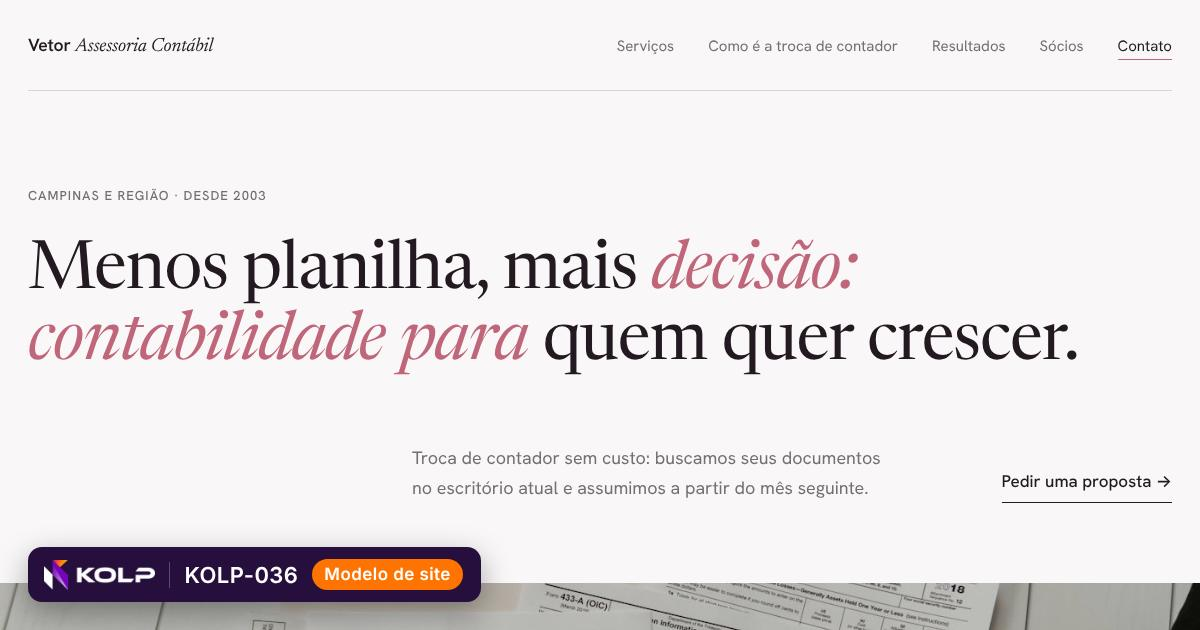
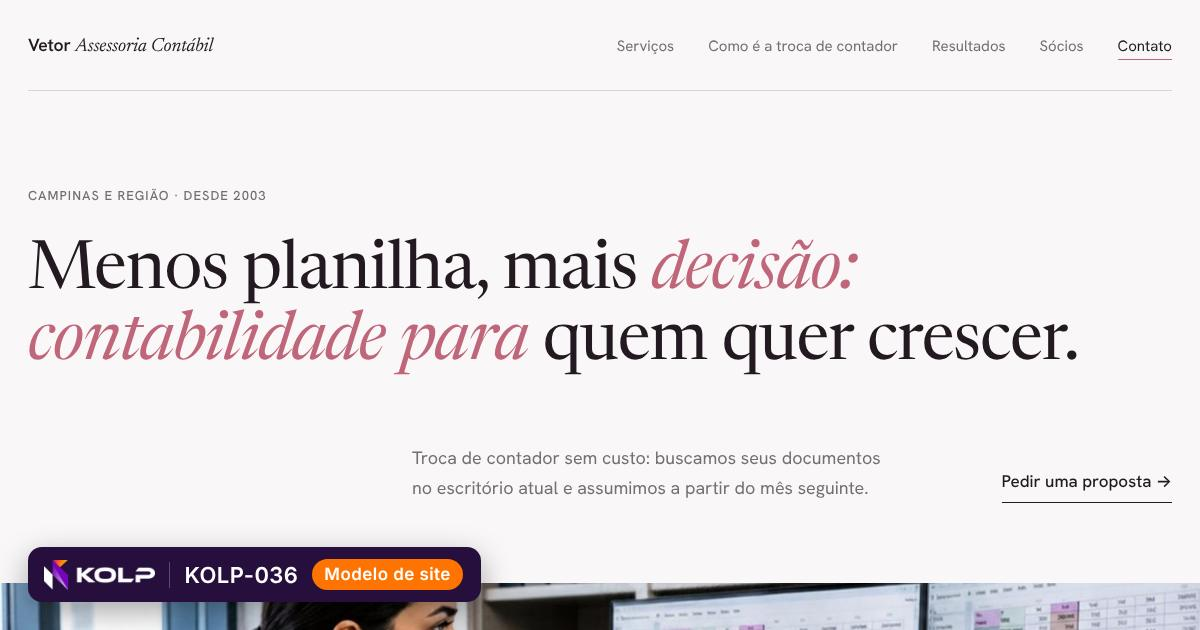
Add new photos for consultoria and contabilidade models
Claude-Session: https://claude.ai/code/session_0151Yi9K8yWSyYvoKWm1KgPz

Changed region(s): [[0.0, 0.9048, 1.0, 1.0]]

diff --git a/kolp-modelos/demo/consultoria-07/index.html b/kolp-modelos/demo/consultoria-07/index.html
@@ -35,7 +35,7 @@
       <p class="lide">Um sócio e um consultor dentro da sua empresa dois dias por semana, trabalhando com a sua equipe e não em paralelo a ela.</p>
       <div class="acoes"><a class="botao" href="#contato">Marcar uma conversa</a><a class="elo" href="#servicos">Conhecer as frentes de trabalho</a></div>
     </div>
-    <figure class="arco"><img src="../../fotos/consultoria/2.jpg" alt="" width="1400" height="930"><figcaption>Desde 2009</figcaption></figure>
+    <figure class="arco"><img src="../../fotos/consultoria/7.jpg" alt="" width="1400" height="930"><figcaption>Desde 2009</figcaption></figure>
   </div>
   <div class="largura"><dl class="indices"><div><dd>+7,2</dd><dt>pontos de margem, em média, nos projetos de finanças</dt></div><div><dd>140</dd><dt>empresas atendidas</dt></div><div><dd>15</dd><dt>anos de atuação</dt></div><div><dd>R$ 4,6 mi</dd><dt>liberados em caixa no maior projeto de 2025</dt></div></dl></div>
   </section>
@@ -43,7 +43,7 @@
     <header class="topo rev"><h2>Frentes de trabalho</h2><p>Três frentes, que quase sempre se cruzam no mesmo projeto.</p></header>
     <ol class="cartoes"><li class="rev"><h3>Estratégia e crescimento</h3><p>Onde investir nos próximos três anos, o que abandonar e quanto isso custa.</p></li><li class="rev"><h3>Finanças e resultado</h3><p>Margem por produto, por cliente e por canal, com orçamento que as áreas cumprem.</p></li><li class="rev"><h3>Governança e sucessão</h3><p>Quem decide o quê, como a família participa e como a próxima geração entra.</p></li><li class="rev"><h3>Vendas e precificação</h3><p>Estrutura comercial, metas, comissões e política de preços por perfil de cliente.</p></li><li class="rev"><h3>Processos e operação</h3><p>Mapeamento, eliminação de retrabalho e indicadores que a equipe acompanha.</p></li><li class="rev"><h3>Pessoas e liderança</h3><p>Organograma, cargos, avaliação de desempenho e formação de gestores.</p></li></ol>
   </div></section>
-  <section class="faixa rev"><img src="../../fotos/consultoria/3.jpg" alt="" width="1400" height="930" loading="lazy"><p>“Nenhum projeto começa sem um número combinado e nenhum termina com um relatório na gaveta.”</p></section>
+  <section class="faixa rev"><img src="../../fotos/consultoria/1.jpg" alt="" width="1400" height="930" loading="lazy"><p>“Nenhum projeto começa sem um número combinado e nenhum termina com um relatório na gaveta.”</p></section>
   <section class="precos" id="precos"><div class="largura precos-grade">
     <div class="precos-lado rev"><h2>Formatos de contratação</h2><p>Escolhemos o formato junto com você, depois do diagnóstico.</p><a class="botao" href="#contato">Marcar uma conversa</a></div>
     <div class="rev"><details open><summary>Diagnóstico</summary><ul><li><div><b>Diagnóstico expresso</b><span>Entrevistas e leitura dos números</span></div><strong>3 semanas</strong></li><li><div><b>Diagnóstico completo</b><span>Com visita à operação e plano</span></div><strong>6 semanas</strong></li><li><div><b>Segunda opinião</b><span>Sobre um plano já existente</span></div><strong>10 dias</strong></li></ul></details><details><summary>Projeto</summary><ul><li><div><b>Projeto de margem</b><span>Preços, portfólio e custos</span></div><strong>6 meses</strong></li><li><div><b>Plano estratégico</b><span>Com desdobramento em metas</span></div><strong>4 meses</strong></li><li><div><b>Sucessão</b><span>Acordo, conselho e transição</span></div><strong>12 meses</strong></li><li><div><b>Estrutura comercial</b><span>Processo, metas e remuneração</span></div><strong>5 meses</strong></li></ul></details><details><summary>Acompanhamento</summary><ul><li><div><b>Conselho consultivo</b><span>Reunião mensal com os sócios</span></div><strong>mensal</strong></li><li><div><b>Diretor por tempo parcial</b><span>Financeiro ou comercial</span></div><strong>2 dias/semana</strong></li><li><div><b>Mentoria de sucessores</b><span>Encontros quinzenais</span></div><strong>quinzenal</strong></li></ul></details></div>

diff --git a/kolp-modelos/demo/contabilidade-07/index.html b/kolp-modelos/demo/contabilidade-07/index.html
@@ -35,7 +35,7 @@
       <p class="lide">Se uma guia vencer por falha nossa, pagamos os encargos. Está no contrato.</p>
       <div class="acoes"><a class="botao" href="#contato">Pedir uma proposta</a><a class="elo" href="#servicos">Ver planos e valores</a></div>
     </div>
-    <figure class="arco"><img src="../../fotos/contabilidade/2.jpg" alt="" width="1400" height="930"><figcaption>Desde 2003</figcaption></figure>
+    <figure class="arco"><img src="../../fotos/contabilidade/1.jpg" alt="" width="1400" height="930"><figcaption>Desde 2003</figcaption></figure>
   </div>
   <div class="largura"><dl class="indices"><div><dd>430</dd><dt>empresas atendidas</dt></div><div><dd>22</dd><dt>anos de escritório</dt></div><div><dd>99,8%</dd><dt>das guias emitidas no prazo em 2025</dt></div><div><dd>R$ 18 mil</dd><dt>de economia tributária média no 1º ano</dt></div></dl></div>
   </section>
@@ -43,7 +43,7 @@
     <header class="topo rev"><h2>Serviços</h2><p>Do CNPJ ao balanço, sem terceirizar nenhuma etapa.</p></header>
     <ol class="cartoes"><li class="rev"><h3>Abertura de empresa</h3><p>Contrato social, CNPJ, inscrições municipal e estadual, alvará e enquadramento tributário.</p></li><li class="rev"><h3>Contabilidade mensal</h3><p>Escrituração, apuração de impostos, emissão de guias, balancetes e balanço anual assinado.</p></li><li class="rev"><h3>Departamento pessoal</h3><p>Admissões, folha, férias, 13º, rescisões, eSocial e FGTS Digital.</p></li><li class="rev"><h3>Planejamento tributário</h3><p>Simulação anual entre os regimes, revisão do Fator R e do enquadramento de atividades.</p></li><li class="rev"><h3>Regularização</h3><p>Parcelamentos, certidões negativas, baixa de pendências na Receita e na prefeitura.</p></li><li class="rev"><h3>Imposto de renda</h3><p>Declaração dos sócios, ganho de capital, carnê-leão e malha fina.</p></li></ol>
   </div></section>
-  <section class="faixa rev"><img src="../../fotos/contabilidade/3.jpg" alt="" width="1400" height="930" loading="lazy"><p>“Contabilidade boa é a que avisa antes de a guia vencer, não depois.”</p></section>
+  <section class="faixa rev"><img src="../../fotos/contabilidade/2.jpg" alt="" width="1400" height="930" loading="lazy"><p>“Contabilidade boa é a que avisa antes de a guia vencer, não depois.”</p></section>
   <section class="precos" id="precos"><div class="largura precos-grade">
     <div class="precos-lado rev"><h2>Planos mensais</h2><p>Valor fixo, sem cobrança de 13ª mensalidade.</p><a class="botao" href="#contato">Pedir uma proposta</a></div>
     <div class="rev"><details open><summary>MEI</summary><ul><li><div><b>Mensalidade</b><span>Guia DAS e controle de faturamento</span></div><strong>R$ 89</strong></li><li><div><b>Declaração anual</b><span>DASN-SIMEI incluída</span></div><strong>incluso</strong></li><li><div><b>Notas fiscais</b><span>Até 10 por mês</span></div><strong>incluso</strong></li><li><div><b>Desenquadramento</b><span>Migração para ME</span></div><strong>R$ 390</strong></li></ul></details><details><summary>Simples Nacional</summary><ul><li><div><b>Mensalidade</b><span>Contábil e fiscal completos</span></div><strong>R$ 349</strong></li><li><div><b>Pró-labore</b><span>Até 2 sócios</span></div><strong>incluso</strong></li><li><div><b>Folha de pagamento</b><span>Até 3 funcionários</span></div><strong>incluso</strong></li><li><div><b>Certificado digital</b><span>e-CNPJ A1</span></div><strong>incluso</strong></li></ul></details><details><summary>Lucro Presumido</summary><ul><li><div><b>Mensalidade</b><span>A partir de</span></div><strong>R$ 690</strong></li><li><div><b>SPED</b><span>Contábil e Fiscal</span></div><strong>incluso</strong></li><li><div><b>Reunião de resultados</b><span>A cada trimestre</span></div><strong>incluso</strong></li><li><div><b>Funcionário adicional</b><span>Na folha</span></div><strong>R$ 45</strong></li></ul></details></div>

diff --git a/kolp-modelos/demo/consultoria-08/index.html b/kolp-modelos/demo/consultoria-08/index.html
@@ -34,17 +34,17 @@
     <p class="lide">A primeira conversa dura uma hora e não custa nada. Se não formos a consultoria certa para o seu momento, dizemos isso.</p>
     <div class="acoes"><a class="botao" href="#contato">Marcar uma conversa</a><a class="elo" href="#servicos">Conhecer as frentes de trabalho</a></div>
     <div class="mosaico">
-      <img class="m1" src="../../fotos/consultoria/4.jpg" alt="" width="1400" height="930">
-      <img class="m2" src="../../fotos/consultoria/3.jpg" alt="" width="1400" height="930">
-      <img class="m3" src="../../fotos/consultoria/5.jpg" alt="" width="1400" height="930">
+      <img class="m1" src="../../fotos/consultoria/2.jpg" alt="" width="1400" height="930">
+      <img class="m2" src="../../fotos/consultoria/1.jpg" alt="" width="1400" height="930">
+      <img class="m3" src="../../fotos/consultoria/3.jpg" alt="" width="1400" height="930">
       <p class="selo"><b>+7,2</b>pontos de margem, em média, nos projetos de finanças</p>
     </div>
   </div></section>
   <section class="pontos"><ul class="largura"><li class="rev">Projetos conduzidos pelos sócios</li><li class="rev">Meta em número e prazo para acabar</li><li class="rev">Honorários atrelados ao resultado</li></ul></section>
   <section class="servicos" id="servicos"><div class="largura">
     <header class="topo rev"><h2>Frentes de trabalho</h2><p>Três frentes, que quase sempre se cruzam no mesmo projeto.</p></header>
-    <div class="par rev"><img src="../../fotos/consultoria/1.jpg" alt="" width="1400" height="930" loading="lazy"><ul><li><h3>Estratégia e crescimento</h3><p>Onde investir nos próximos três anos, o que abandonar e quanto isso custa.</p></li><li><h3>Finanças e resultado</h3><p>Margem por produto, por cliente e por canal, com orçamento que as áreas cumprem.</p></li><li><h3>Governança e sucessão</h3><p>Quem decide o quê, como a família participa e como a próxima geração entra.</p></li></ul></div>
-    <div class="par par-inv rev"><img src="../../fotos/consultoria/2.jpg" alt="" width="1400" height="930" loading="lazy"><ul><li><h3>Vendas e precificação</h3><p>Estrutura comercial, metas, comissões e política de preços por perfil de cliente.</p></li><li><h3>Processos e operação</h3><p>Mapeamento, eliminação de retrabalho e indicadores que a equipe acompanha.</p></li><li><h3>Pessoas e liderança</h3><p>Organograma, cargos, avaliação de desempenho e formação de gestores.</p></li></ul></div>
+    <div class="par rev"><img src="../../fotos/consultoria/4.jpg" alt="" width="1400" height="930" loading="lazy"><ul><li><h3>Estratégia e crescimento</h3><p>Onde investir nos próximos três anos, o que abandonar e quanto isso custa.</p></li><li><h3>Finanças e resultado</h3><p>Margem por produto, por cliente e por canal, com orçamento que as áreas cumprem.</p></li><li><h3>Governança e sucessão</h3><p>Quem decide o quê, como a família participa e como a próxima geração entra.</p></li></ul></div>
+    <div class="par par-inv rev"><img src="../../fotos/consultoria/5.jpg" alt="" width="1400" height="930" loading="lazy"><ul><li><h3>Vendas e precificação</h3><p>Estrutura comercial, metas, comissões e política de preços por perfil de cliente.</p></li><li><h3>Processos e operação</h3><p>Mapeamento, eliminação de retrabalho e indicadores que a equipe acompanha.</p></li><li><h3>Pessoas e liderança</h3><p>Organograma, cargos, avaliação de desempenho e formação de gestores.</p></li></ul></div>
   </div></section>
   <section class="precos" id="precos"><div class="largura">
     <header class="topo rev"><h2>Formatos de contratação</h2><p>Escolhemos o formato junto com você, depois do diagnóstico.</p></header>

diff --git a/kolp-modelos/demo/contabilidade-08/index.html b/kolp-modelos/demo/contabilidade-08/index.html
@@ -34,17 +34,17 @@
     <p class="lide">Revisamos o seu enquadramento tributário todo ano. No primeiro, nossos clientes economizam em média R$ 18.400.</p>
     <div class="acoes"><a class="botao" href="#contato">Pedir uma proposta</a><a class="elo" href="#servicos">Ver planos e valores</a></div>
     <div class="mosaico">
-      <img class="m1" src="../../fotos/contabilidade/4.jpg" alt="" width="1400" height="930">
-      <img class="m2" src="../../fotos/contabilidade/3.jpg" alt="" width="1400" height="930">
-      <img class="m3" src="../../fotos/contabilidade/5.jpg" alt="" width="1400" height="930">
+      <img class="m1" src="../../fotos/contabilidade/3.jpg" alt="" width="1400" height="930">
+      <img class="m2" src="../../fotos/contabilidade/2.jpg" alt="" width="1400" height="930">
+      <img class="m3" src="../../fotos/contabilidade/4.jpg" alt="" width="1400" height="930">
       <p class="selo"><b>430</b>empresas atendidas</p>
     </div>
   </div></section>
   <section class="pontos"><ul class="largura"><li class="rev">Troca de contador sem custo</li><li class="rev">Multa por atraso é por nossa conta</li><li class="rev">Fechamento até o quinto dia útil</li></ul></section>
   <section class="servicos" id="servicos"><div class="largura">
     <header class="topo rev"><h2>Serviços</h2><p>Do CNPJ ao balanço, sem terceirizar nenhuma etapa.</p></header>
-    <div class="par rev"><img src="../../fotos/contabilidade/1.jpg" alt="" width="1400" height="930" loading="lazy"><ul><li><h3>Abertura de empresa</h3><p>Contrato social, CNPJ, inscrições municipal e estadual, alvará e enquadramento tributário.</p></li><li><h3>Contabilidade mensal</h3><p>Escrituração, apuração de impostos, emissão de guias, balancetes e balanço anual assinado.</p></li><li><h3>Departamento pessoal</h3><p>Admissões, folha, férias, 13º, rescisões, eSocial e FGTS Digital.</p></li></ul></div>
-    <div class="par par-inv rev"><img src="../../fotos/contabilidade/2.jpg" alt="" width="1400" height="930" loading="lazy"><ul><li><h3>Planejamento tributário</h3><p>Simulação anual entre os regimes, revisão do Fator R e do enquadramento de atividades.</p></li><li><h3>Regularização</h3><p>Parcelamentos, certidões negativas, baixa de pendências na Receita e na prefeitura.</p></li><li><h3>Imposto de renda</h3><p>Declaração dos sócios, ganho de capital, carnê-leão e malha fina.</p></li></ul></div>
+    <div class="par rev"><img src="../../fotos/contabilidade/5.jpg" alt="" width="1400" height="930" loading="lazy"><ul><li><h3>Abertura de empresa</h3><p>Contrato social, CNPJ, inscrições municipal e estadual, alvará e enquadramento tributário.</p></li><li><h3>Contabilidade mensal</h3><p>Escrituração, apuração de impostos, emissão de guias, balancetes e balanço anual assinado.</p></li><li><h3>Departamento pessoal</h3><p>Admissões, folha, férias, 13º, rescisões, eSocial e FGTS Digital.</p></li></ul></div>
+    <div class="par par-inv rev"><img src="../../fotos/contabilidade/6.jpg" alt="" width="1400" height="930" loading="lazy"><ul><li><h3>Planejamento tributário</h3><p>Simulação anual entre os regimes, revisão do Fator R e do enquadramento de atividades.</p></li><li><h3>Regularização</h3><p>Parcelamentos, certidões negativas, baixa de pendências na Receita e na prefeitura.</p></li><li><h3>Imposto de renda</h3><p>Declaração dos sócios, ganho de capital, carnê-leão e malha fina.</p></li></ul></div>
   </div></section>
   <section class="precos" id="precos"><div class="largura">
     <header class="topo rev"><h2>Planos mensais</h2><p>Valor fixo, sem cobrança de 13ª mensalidade.</p></header>

diff --git a/kolp-modelos/demo/consultoria-10/index.html b/kolp-modelos/demo/consultoria-10/index.html
@@ -30,7 +30,7 @@
 <div class="conteudo">
 <main>
   <section class="abertura">
-    <img src="../../fotos/consultoria/5.jpg" alt="" width="1400" height="930">
+    <img src="../../fotos/consultoria/3.jpg" alt="" width="1400" height="930">
     <div class="legenda"><p class="rotulo">Desde 2009 · Curitiba — PR</p><h1>Sócios com experiência de diretoria dentro da sua empresa toda semana.</h1></div>
   </section>
   <section class="sobre" id="sobre">
@@ -41,7 +41,7 @@
     <header class="topo"><h2>Frentes de trabalho</h2><p>Três frentes, que quase sempre se cruzam no mesmo projeto.</p></header>
     <ul class="servicos"><li><h3>Estratégia e crescimento</h3><p>Onde investir nos próximos três anos, o que abandonar e quanto isso custa.</p></li><li><h3>Finanças e resultado</h3><p>Margem por produto, por cliente e por canal, com orçamento que as áreas cumprem.</p></li><li><h3>Governança e sucessão</h3><p>Quem decide o quê, como a família participa e como a próxima geração entra.</p></li><li><h3>Vendas e precificação</h3><p>Estrutura comercial, metas, comissões e política de preços por perfil de cliente.</p></li><li><h3>Processos e operação</h3><p>Mapeamento, eliminação de retrabalho e indicadores que a equipe acompanha.</p></li><li><h3>Pessoas e liderança</h3><p>Organograma, cargos, avaliação de desempenho e formação de gestores.</p></li></ul>
   </section>
-  <figure class="citacao"><img src="../../fotos/consultoria/1.jpg" alt="" width="1400" height="930" loading="lazy"><blockquote>“Nenhum projeto começa sem um número combinado e nenhum termina com um relatório na gaveta.”</blockquote></figure>
+  <figure class="citacao"><img src="../../fotos/consultoria/4.jpg" alt="" width="1400" height="930" loading="lazy"><blockquote>“Nenhum projeto começa sem um número combinado e nenhum termina com um relatório na gaveta.”</blockquote></figure>
   <section id="equipe">
     <header class="topo"><h2>Sócios</h2><p>Quem vende o projeto é quem conduz o projeto.</p></header>
     <div class="equipe"><article><img src="../../fotos/retratos/m6.jpg" alt="Retrato de Eduardo Vianna" width="560" height="680" loading="lazy"><div><h3>Eduardo Vianna</h3><p class="cargo">Finanças e resultado</p><p>Vinte anos em finanças corporativas, doze deles como diretor financeiro em indústrias de médio porte.</p></div></article><article><img src="../../fotos/retratos/f6.jpg" alt="Retrato de Helena Andrade" width="560" height="680" loading="lazy"><div><h3>Helena Andrade</h3><p class="cargo">Estratégia e vendas</p><p>Ex-diretora comercial de distribuidora nacional. MBA pelo Insper.</p></div></article><article><img src="../../fotos/retratos/m1.jpg" alt="Retrato de Rafael Tanaka" width="560" height="680" loading="lazy"><div><h3>Rafael Tanaka</h3><p class="cargo">Governança e sucessão</p><p>Conselheiro certificado pelo IBGC. Conduziu sucessões em mais de trinta empresas familiares.</p></div></article></div>

diff --git a/kolp-modelos/demo/contabilidade-10/index.html b/kolp-modelos/demo/contabilidade-10/index.html
@@ -30,7 +30,7 @@
 <div class="conteudo">
 <main>
   <section class="abertura">
-    <img src="../../fotos/contabilidade/5.jpg" alt="" width="1400" height="930">
+    <img src="../../fotos/contabilidade/4.jpg" alt="" width="1400" height="930">
     <div class="legenda"><p class="rotulo">Desde 2003 · Campinas e região</p><h1>Sócios contadores atendendo sócios de empresa, sem intermediário.</h1></div>
   </section>
   <section class="sobre" id="sobre">
@@ -41,7 +41,7 @@
     <header class="topo"><h2>Serviços</h2><p>Do CNPJ ao balanço, sem terceirizar nenhuma etapa.</p></header>
     <ul class="servicos"><li><h3>Abertura de empresa</h3><p>Contrato social, CNPJ, inscrições municipal e estadual, alvará e enquadramento tributário.</p></li><li><h3>Contabilidade mensal</h3><p>Escrituração, apuração de impostos, emissão de guias, balancetes e balanço anual assinado.</p></li><li><h3>Departamento pessoal</h3><p>Admissões, folha, férias, 13º, rescisões, eSocial e FGTS Digital.</p></li><li><h3>Planejamento tributário</h3><p>Simulação anual entre os regimes, revisão do Fator R e do enquadramento de atividades.</p></li><li><h3>Regularização</h3><p>Parcelamentos, certidões negativas, baixa de pendências na Receita e na prefeitura.</p></li><li><h3>Imposto de renda</h3><p>Declaração dos sócios, ganho de capital, carnê-leão e malha fina.</p></li></ul>
   </section>
-  <figure class="citacao"><img src="../../fotos/contabilidade/1.jpg" alt="" width="1400" height="930" loading="lazy"><blockquote>“Contabilidade boa é a que avisa antes de a guia vencer, não depois.”</blockquote></figure>
+  <figure class="citacao"><img src="../../fotos/contabilidade/5.jpg" alt="" width="1400" height="930" loading="lazy"><blockquote>“Contabilidade boa é a que avisa antes de a guia vencer, não depois.”</blockquote></figure>
   <section id="equipe">
     <header class="topo"><h2>Sócios</h2><p>Contadores com registro ativo e mais de quinze anos de escritório.</p></header>
     <div class="equipe"><article><img src="../../fotos/retratos/m4.jpg" alt="Retrato de Ricardo Lopes" width="560" height="680" loading="lazy"><div><h3>Ricardo Lopes</h3><p class="cargo">Sócio · CRC-SP 198.774</p><p>Contador e advogado tributarista. Responde pelo planejamento fiscal dos clientes.</p></div></article><article><img src="../../fotos/retratos/f4.jpg" alt="Retrato de Camila Ferraz" width="560" height="680" loading="lazy"><div><h3>Camila Ferraz</h3><p class="cargo">Sócia · CRC-SP 214.630</p><p>Especialista em departamento pessoal e eSocial, com MBA em Controladoria.</p></div></article><article><img src="../../fotos/retratos/m5.jpg" alt="Retrato de Jorge Almeida" width="560" height="680" loading="lazy"><div><h3>Jorge Almeida</h3><p class="cargo">Sócio · CRC-SP 176.218</p><p>Vinte e cinco anos de experiência em contabilidade industrial e de custos.</p></div></article></div>

diff --git a/kolp-modelos/demo/consultoria-06/index.html b/kolp-modelos/demo/consultoria-06/index.html
@@ -33,7 +33,7 @@
       <h1 class="rev">Ajudamos empresas familiares a <em>crescer sem perder</em> o controle do negócio.</h1>
       <div class="abertura-base rev"><p>Estratégia, finanças e sucessão para empresas de médio porte, com parte dos honorários atrelada ao resultado.</p><a class="seta" href="#contato">Marcar uma conversa</a></div>
     </div>
-    <figure class="abertura-foto rev"><img src="../../fotos/consultoria/1.jpg" alt="" width="1400" height="930"></figure>
+    <figure class="abertura-foto rev"><img src="../../fotos/consultoria/6.jpg" alt="" width="1400" height="930"></figure>
   </section>
   <section class="frentes" id="servicos"><div class="largura bloco">
     <h2 class="rotulo">01 — Frentes de trabalho</h2>
@@ -44,7 +44,7 @@
     <div><p class="frase rev">Nenhum projeto começa sem um número combinado e nenhum termina com um relatório na gaveta.</p>
       <ol class="etapas"><li class="rev"><span>Etapa 1</span><h3>Diagnóstico</h3><p>Entrevistas com a liderança, leitura dos números dos últimos 36 meses e visita à operação.</p></li><li class="rev"><span>Etapa 2</span><h3>Meta e contrato</h3><p>Definimos juntos o resultado esperado, o prazo e como ele será medido.</p></li><li class="rev"><span>Etapa 3</span><h3>Execução</h3><p>Um sócio e um consultor dentro da empresa dois dias por semana, com a sua equipe.</p></li><li class="rev"><span>Etapa 4</span><h3>Acompanhamento</h3><p>Reunião mensal de resultados por um ano, sem custo adicional.</p></li></ol></div>
   </div></section>
-  <figure class="faixa-foto rev"><img src="../../fotos/consultoria/2.jpg" alt="" width="1400" height="930" loading="lazy"></figure>
+  <figure class="faixa-foto rev"><img src="../../fotos/consultoria/7.jpg" alt="" width="1400" height="930" loading="lazy"></figure>
   <section class="casos" id="resultados"><div class="largura bloco">
     <h2 class="rotulo">03 — Resultados</h2>
     <div><article class="rev"><p class="resultado">+7,2<small>pontos de margem, em média, nos projetos de finanças</small></p><div><h3>Distribuidora de materiais elétricos</h3><p>Refizemos a política de preços e encerramos 14% do portfólio, que dava prejuízo. A margem passou de 4,1% para 11,3% em dez meses.</p></div></article><article class="rev"><p class="resultado">140<small>empresas atendidas</small></p><div><h3>Carteira variada</h3><p>Indústria, distribuição, saúde e serviços, sempre em empresas de cinquenta a quinhentos funcionários.</p></div></article><article class="rev"><p class="resultado">15<small>anos de atuação</small></p><div><h3>Experiência</h3><p>Os sócios somam mais de quarenta anos em cargos de diretoria financeira e comercial.</p></div></article></div>

diff --git a/kolp-modelos/demo/contabilidade-06/index.html b/kolp-modelos/demo/contabilidade-06/index.html
@@ -33,7 +33,7 @@
       <h1 class="rev">Menos planilha, mais <em>decisão: contabilidade para</em> quem quer crescer.</h1>
       <div class="abertura-base rev"><p>Troca de contador sem custo: buscamos seus documentos no escritório atual e assumimos a partir do mês seguinte.</p><a class="seta" href="#contato">Pedir uma proposta</a></div>
     </div>
-    <figure class="abertura-foto rev"><img src="../../fotos/contabilidade/1.jpg" alt="" width="1400" height="930"></figure>
+    <figure class="abertura-foto rev"><img src="../../fotos/contabilidade/6.jpg" alt="" width="1400" height="930"></figure>
   </section>
   <section class="frentes" id="servicos"><div class="largura bloco">
     <h2 class="rotulo">01 — Serviços</h2>
@@ -44,7 +44,7 @@
     <div><p class="frase rev">Contabilidade boa é a que avisa antes de a guia vencer, não depois.</p>
       <ol class="etapas"><li class="rev"><span>Etapa 1</span><h3>Diagnóstico gratuito</h3><p>Analisamos seu último balanço e as guias dos últimos doze meses.</p></li><li class="rev"><span>Etapa 2</span><h3>Proposta fechada</h3><p>Você recebe o valor mensal e a economia tributária estimada, por escrito.</p></li><li class="rev"><span>Etapa 3</span><h3>Transferência</h3><p>Buscamos livros e documentos no escritório atual. Você não precisa intermediar.</p></li><li class="rev"><span>Etapa 4</span><h3>Primeiro fechamento</h3><p>Assumimos no mês seguinte, com reunião de apresentação dos números.</p></li></ol></div>
   </div></section>
-  <figure class="faixa-foto rev"><img src="../../fotos/contabilidade/2.jpg" alt="" width="1400" height="930" loading="lazy"></figure>
+  <figure class="faixa-foto rev"><img src="../../fotos/contabilidade/1.jpg" alt="" width="1400" height="930" loading="lazy"></figure>
   <section class="casos" id="resultados"><div class="largura bloco">
     <h2 class="rotulo">03 — Resultados</h2>
     <div><article class="rev"><p class="resultado">430<small>empresas atendidas</small></p><div><h3>Carteira diversa</h3><p>Do MEI à indústria com duzentos funcionários, em quarenta atividades diferentes.</p></div></article><article class="rev"><p class="resultado">22<small>anos de escritório</small></p><div><h3>Experiência</h3><p>Acompanhamos três mudanças de regime tributário e todas as fases do eSocial.</p></div></article><article class="rev"><p class="resultado">99,8%<small>das guias emitidas no prazo em 2025</small></p><div><h3>Pontualidade</h3><p>Nossos clientes recebem as guias com cinco dias de antecedência.</p></div></article></div>

diff --git a/kolp-modelos/demo/consultoria-09/index.html b/kolp-modelos/demo/consultoria-09/index.html
@@ -30,7 +30,7 @@
 </div></header>
 <main>
   <section class="abertura">
-    <img src="../../fotos/consultoria/4.jpg" alt="" width="1400" height="930">
+    <img src="../../fotos/consultoria/2.jpg" alt="" width="1400" height="930">
     <div class="abertura-bloco"><div>
       <p class="rotulo">Curitiba — PR</p>
       <h1>Menos retrabalho, menos estoque parado, mais margem no fim do mês.</h1>
@@ -51,7 +51,7 @@
     <header class="topo"><h2>Formatos de contratação</h2><p>Escolhemos o formato junto com você, depois do diagnóstico.</p></header>
     <div class="tabela-rolagem"><table><tbody><tr class="grupo"><th colspan="3">Diagnóstico</th></tr><tr><th>Diagnóstico expresso</th><td>Entrevistas e leitura dos números</td><td>3 semanas</td></tr><tr><th>Diagnóstico completo</th><td>Com visita à operação e plano</td><td>6 semanas</td></tr><tr><th>Segunda opinião</th><td>Sobre um plano já existente</td><td>10 dias</td></tr></tbody><tbody><tr class="grupo"><th colspan="3">Projeto</th></tr><tr><th>Projeto de margem</th><td>Preços, portfólio e custos</td><td>6 meses</td></tr><tr><th>Plano estratégico</th><td>Com desdobramento em metas</td><td>4 meses</td></tr><tr><th>Sucessão</th><td>Acordo, conselho e transição</td><td>12 meses</td></tr><tr><th>Estrutura comercial</th><td>Processo, metas e remuneração</td><td>5 meses</td></tr></tbody><tbody><tr class="grupo"><th colspan="3">Acompanhamento</th></tr><tr><th>Conselho consultivo</th><td>Reunião mensal com os sócios</td><td>mensal</td></tr><tr><th>Diretor por tempo parcial</th><td>Financeiro ou comercial</td><td>2 dias/semana</td></tr><tr><th>Mentoria de sucessores</th><td>Encontros quinzenais</td><td>quinzenal</td></tr></tbody></table></div>
   </div></section>
-  <section class="prova"><img src="../../fotos/consultoria/5.jpg" alt="" width="1400" height="930" loading="lazy">
+  <section class="prova"><img src="../../fotos/consultoria/3.jpg" alt="" width="1400" height="930" loading="lazy">
     <blockquote><p>“Crescíamos vinte por cento ao ano e o lucro não aparecia. Em dez meses de projeto descobrimos onde o dinheiro ficava e tivemos o melhor resultado da história da empresa.”</p><footer><b>Sérgio Bittencourt</b> sócio de distribuidora, 180 funcionários</footer></blockquote>
   </section>
   <section class="contato" id="contato"><div class="largura contato-grade">

diff --git a/kolp-modelos/demo/contabilidade-09/index.html b/kolp-modelos/demo/contabilidade-09/index.html
@@ -30,7 +30,7 @@
 </div></header>
 <main>
   <section class="abertura">
-    <img src="../../fotos/contabilidade/4.jpg" alt="" width="1400" height="930">
+    <img src="../../fotos/contabilidade/3.jpg" alt="" width="1400" height="930">
     <div class="abertura-bloco"><div>
       <p class="rotulo">Campinas e região</p>
       <h1>Custos, estoque e folha de fábrica sob controle rigoroso.</h1>
@@ -51,7 +51,7 @@
     <header class="topo"><h2>Planos mensais</h2><p>Valor fixo, sem cobrança de 13ª mensalidade.</p></header>
     <div class="tabela-rolagem"><table><tbody><tr class="grupo"><th colspan="3">MEI</th></tr><tr><th>Mensalidade</th><td>Guia DAS e controle de faturamento</td><td>R$ 89</td></tr><tr><th>Declaração anual</th><td>DASN-SIMEI incluída</td><td>incluso</td></tr><tr><th>Notas fiscais</th><td>Até 10 por mês</td><td>incluso</td></tr><tr><th>Desenquadramento</th><td>Migração para ME</td><td>R$ 390</td></tr></tbody><tbody><tr class="grupo"><th colspan="3">Simples Nacional</th></tr><tr><th>Mensalidade</th><td>Contábil e fiscal completos</td><td>R$ 349</td></tr><tr><th>Pró-labore</th><td>Até 2 sócios</td><td>incluso</td></tr><tr><th>Folha de pagamento</th><td>Até 3 funcionários</td><td>incluso</td></tr><tr><th>Certificado digital</th><td>e-CNPJ A1</td><td>incluso</td></tr></tbody><tbody><tr class="grupo"><th colspan="3">Lucro Presumido</th></tr><tr><th>Mensalidade</th><td>A partir de</td><td>R$ 690</td></tr><tr><th>SPED</th><td>Contábil e Fiscal</td><td>incluso</td></tr><tr><th>Reunião de resultados</th><td>A cada trimestre</td><td>incluso</td></tr><tr><th>Funcionário adicional</th><td>Na folha</td><td>R$ 45</td></tr></tbody></table></div>
   </div></section>
-  <section class="prova"><img src="../../fotos/contabilidade/5.jpg" alt="" width="1400" height="930" loading="lazy">
+  <section class="prova"><img src="../../fotos/contabilidade/4.jpg" alt="" width="1400" height="930" loading="lazy">
     <blockquote><p>“Paguei imposto a mais durante três anos sem saber. Refizeram o enquadramento da clínica e a alíquota caiu de 15,5% para 6%. Em oito meses recuperei o que tinha gasto com o escritório antigo.”</p><footer><b>Camila Rezende</b> sócia de clínica de fisioterapia, cliente desde 2021</footer></blockquote>
   </section>
   <section class="contato" id="contato"><div class="largura contato-grade">

diff --git a/kolp-modelos/demo/contabilidade-05/index.html b/kolp-modelos/demo/contabilidade-05/index.html
@@ -46,13 +46,13 @@
     <ul class="secoes-lista"><li><b>Abertura de empresa</b><span>Contrato social, CNPJ, inscrições municipal e estadual, alvará e enquadramento tributário.</span></li><li><b>Contabilidade mensal</b><span>Escrituração, apuração de impostos, emissão de guias, balancetes e balanço anual assinado.</span></li><li><b>Departamento pessoal</b><span>Admissões, folha, férias, 13º, rescisões, eSocial e FGTS Digital.</span></li><li><b>Planejamento tributário</b><span>Simulação anual entre os regimes, revisão do Fator R e do enquadramento de atividades.</span></li><li><b>Regularização</b><span>Parcelamentos, certidões negativas, baixa de pendências na Receita e na prefeitura.</span></li><li><b>Imposto de renda</b><span>Declaração dos sócios, ganho de capital, carnê-leão e malha fina.</span></li></ul>
   </div></section>
   <section class="pedir" id="processo"><div class="largura pedir-grade">
-    <img src="../../fotos/contabilidade/1.jpg" alt="" width="1400" height="930" loading="lazy">
+    <img src="../../fotos/contabilidade/6.jpg" alt="" width="1400" height="930" loading="lazy">
     <div><h2>Como é a troca de contador</h2>
       <ol><li><b>Diagnóstico gratuito</b>Analisamos seu último balanço e as guias dos últimos doze meses.</li><li><b>Proposta fechada</b>Você recebe o valor mensal e a economia tributária estimada, por escrito.</li><li><b>Transferência</b>Buscamos livros e documentos no escritório atual. Você não precisa intermediar.</li></ol>
       <a class="botao botao-grande" href="https://wa.me/5511999999999?text=Ol%C3%A1!%20Vim%20pelo%20site.">Pedir uma proposta</a></div>
   </div></section>
   <section class="loja" id="local">
-    <img class="loja-fundo" src="../../fotos/contabilidade/2.jpg" alt="" width="1400" height="930" loading="lazy">
+    <img class="loja-fundo" src="../../fotos/contabilidade/1.jpg" alt="" width="1400" height="930" loading="lazy">
     <div class="largura loja-grade"><div class="cartao">
       <h2>Receba uma proposta em um dia útil</h2>
       <p class="endereco">Av. Norte-Sul, 1.540 — sala 82, Cambuí, Campinas</p>

diff --git a/kolp-modelos/demo/consultoria-05/index.html b/kolp-modelos/demo/consultoria-05/index.html
@@ -46,13 +46,13 @@
     <ul class="secoes-lista"><li><b>Estratégia e crescimento</b><span>Onde investir nos próximos três anos, o que abandonar e quanto isso custa.</span></li><li><b>Finanças e resultado</b><span>Margem por produto, por cliente e por canal, com orçamento que as áreas cumprem.</span></li><li><b>Governança e sucessão</b><span>Quem decide o quê, como a família participa e como a próxima geração entra.</span></li><li><b>Vendas e precificação</b><span>Estrutura comercial, metas, comissões e política de preços por perfil de cliente.</span></li><li><b>Processos e operação</b><span>Mapeamento, eliminação de retrabalho e indicadores que a equipe acompanha.</span></li><li><b>Pessoas e liderança</b><span>Organograma, cargos, avaliação de desempenho e formação de gestores.</span></li></ul>
   </div></section>
   <section class="pedir" id="processo"><div class="largura pedir-grade">
-    <img src="../../fotos/consultoria/1.jpg" alt="" width="1400" height="930" loading="lazy">
+    <img src="../../fotos/consultoria/6.jpg" alt="" width="1400" height="930" loading="lazy">
     <div><h2>Método</h2>
       <ol><li><b>Diagnóstico</b>Entrevistas com a liderança, leitura dos números dos últimos 36 meses e visita à operação.</li><li><b>Meta e contrato</b>Definimos juntos o resultado esperado, o prazo e como ele será medido.</li><li><b>Execução</b>Um sócio e um consultor dentro da empresa dois dias por semana, com a sua equipe.</li></ol>
       <a class="botao botao-grande" href="https://wa.me/5511999999999?text=Ol%C3%A1!%20Vim%20pelo%20site.">Marcar uma conversa</a></div>
   </div></section>
   <section class="loja" id="local">
-    <img class="loja-fundo" src="../../fotos/consultoria/2.jpg" alt="" width="1400" height="930" loading="lazy">
+    <img class="loja-fundo" src="../../fotos/consultoria/7.jpg" alt="" width="1400" height="930" loading="lazy">
     <div class="largura loja-grade"><div class="cartao">
       <h2>Vamos conversar sobre a sua empresa?</h2>
       <p class="endereco">Rua Comendador Araújo, 510 — 14º andar, Batel, Curitiba</p>
